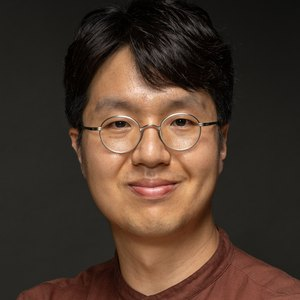
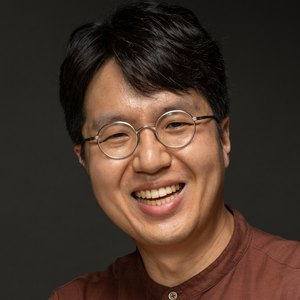
Update Cho Wonjin photo
Claude-Session: https://claude.ai/code/session_0162FmzSwpmUJUeJpj9DyQYv

diff --git a/en/planner.html b/en/planner.html
@@ -12,7 +12,7 @@
 <link rel="preconnect" href="https://cdn.jsdelivr.net" crossorigin>
 <link rel="stylesheet" href="https://cdn.jsdelivr.net/gh/orioncactus/pretendard@v1.3.9/dist/web/variable/pretendardvariable-dynamic-subset.min.css">
 
-<link rel="stylesheet" href="../css/style.css?v=11070758">
+<link rel="stylesheet" href="../css/style.css?v=11070757">
 <link rel="icon" type="image/png" sizes="32x32" href="../assets/favicon-32.png">
 <link rel="apple-touch-icon" sizes="180x180" href="../assets/apple-touch-icon.png">
 <link rel="manifest" href="../manifest.webmanifest">
@@ -23,11 +23,11 @@
 <main class="page"><a class="back" href="index.html">‹ Home</a><h1 class="pg-t">Session Planner</h1><p class="pg-m">Enter your World Coffee Forum 2026 registration details to see your ticket type and the sessions you can attend.</p><div id="planner" aria-live="polite"></div></main>
 <footer><span>© World Coffee Forum</span><a href="index.html">Show Guide Home</a></footer>
 </div>
-<script src="../js/nav.js?v=11070758"></script>
-<script src="../js/config.js?v=11070758"></script>
-<script src="../js/data.js?v=11070758"></script>
-<script src="../js/data.en.js?v=11070758"></script>
-<script src="../js/planner.js?v=11070758"></script>
-<script src="../js/fx.js?v=11070758"></script>
+<script src="../js/nav.js?v=11070757"></script>
+<script src="../js/config.js?v=11070757"></script>
+<script src="../js/data.js?v=11070757"></script>
+<script src="../js/data.en.js?v=11070757"></script>
+<script src="../js/planner.js?v=11070757"></script>
+<script src="../js/fx.js?v=11070757"></script>
 </body>
 </html>

diff --git a/planner.html b/planner.html
@@ -12,7 +12,7 @@
 <link rel="preconnect" href="https://cdn.jsdelivr.net" crossorigin>
 <link rel="stylesheet" href="https://cdn.jsdelivr.net/gh/orioncactus/pretendard@v1.3.9/dist/web/variable/pretendardvariable-dynamic-subset.min.css">
 
-<link rel="stylesheet" href="css/style.css?v=11070758">
+<link rel="stylesheet" href="css/style.css?v=11070757">
 <link rel="icon" type="image/png" sizes="32x32" href="assets/favicon-32.png">
 <link rel="apple-touch-icon" sizes="180x180" href="assets/apple-touch-icon.png">
 <link rel="manifest" href="manifest.webmanifest">
@@ -23,10 +23,10 @@
 <main class="page"><a class="back" href="index.html">‹ 홈</a><h1 class="pg-t">세션 플래너</h1><p class="pg-m">2026 월드커피포럼 등록 정보를 입력하시면 티켓 권종과 참관 가능한 세션 정보를 확인할 수 있습니다.</p><div id="planner" aria-live="polite"></div></main>
 <footer><span>© World Coffee Forum</span><a href="index.html">쇼가이드 홈</a></footer>
 </div>
-<script src="js/nav.js?v=11070758"></script>
-<script src="js/config.js?v=11070758"></script>
-<script src="js/data.js?v=11070758"></script>
-<script src="js/planner.js?v=11070758"></script>
-<script src="js/fx.js?v=11070758"></script>
+<script src="js/nav.js?v=11070757"></script>
+<script src="js/config.js?v=11070757"></script>
+<script src="js/data.js?v=11070757"></script>
+<script src="js/planner.js?v=11070757"></script>
+<script src="js/fx.js?v=11070757"></script>
 </body>
 </html>

diff --git a/en/session.html b/en/session.html
@@ -12,7 +12,7 @@
 <link rel="preconnect" href="https://cdn.jsdelivr.net" crossorigin>
 <link rel="stylesheet" href="https://cdn.jsdelivr.net/gh/orioncactus/pretendard@v1.3.9/dist/web/variable/pretendardvariable-dynamic-subset.min.css">
 
-<link rel="stylesheet" href="../css/style.css?v=11070758">
+<link rel="stylesheet" href="../css/style.css?v=11070757">
 <link rel="icon" type="image/png" sizes="32x32" href="../assets/favicon-32.png">
 <link rel="apple-touch-icon" sizes="180x180" href="../assets/apple-touch-icon.png">
 <link rel="manifest" href="../manifest.webmanifest">
@@ -23,10 +23,10 @@
 <main class="page" id="view"></main>
 <footer><span>© World Coffee Forum</span><a href="index.html">Show Guide Home</a></footer>
 </div>
-<script src="../js/nav.js?v=11070758"></script>
-<script src="../js/data.js?v=11070758"></script>
-<script src="../js/data.en.js?v=11070758"></script>
-<script src="../js/detail.js?v=11070758"></script>
-<script src="../js/fx.js?v=11070758"></script>
+<script src="../js/nav.js?v=11070757"></script>
+<script src="../js/data.js?v=11070757"></script>
+<script src="../js/data.en.js?v=11070757"></script>
+<script src="../js/detail.js?v=11070757"></script>
+<script src="../js/fx.js?v=11070757"></script>
 </body>
 </html>

diff --git a/session.html b/session.html
@@ -12,7 +12,7 @@
 <link rel="preconnect" href="https://cdn.jsdelivr.net" crossorigin>
 <link rel="stylesheet" href="https://cdn.jsdelivr.net/gh/orioncactus/pretendard@v1.3.9/dist/web/variable/pretendardvariable-dynamic-subset.min.css">
 
-<link rel="stylesheet" href="css/style.css?v=11070758">
+<link rel="stylesheet" href="css/style.css?v=11070757">
 <link rel="icon" type="image/png" sizes="32x32" href="assets/favicon-32.png">
 <link rel="apple-touch-icon" sizes="180x180" href="assets/apple-touch-icon.png">
 <link rel="manifest" href="manifest.webmanifest">
@@ -23,9 +23,9 @@
 <main class="page" id="view"></main>
 <footer><span>© World Coffee Forum</span><a href="index.html">쇼가이드 홈</a></footer>
 </div>
-<script src="js/nav.js?v=11070758"></script>
-<script src="js/data.js?v=11070758"></script>
-<script src="js/detail.js?v=11070758"></script>
-<script src="js/fx.js?v=11070758"></script>
+<script src="js/nav.js?v=11070757"></script>
+<script src="js/data.js?v=11070757"></script>
+<script src="js/detail.js?v=11070757"></script>
+<script src="js/fx.js?v=11070757"></script>
 </body>
 </html>

diff --git a/en/about.html b/en/about.html
@@ -12,7 +12,7 @@
 <link rel="preconnect" href="https://cdn.jsdelivr.net" crossorigin>
 <link rel="stylesheet" href="https://cdn.jsdelivr.net/gh/orioncactus/pretendard@v1.3.9/dist/web/variable/pretendardvariable-dynamic-subset.min.css">
 
-<link rel="stylesheet" href="../css/style.css?v=11070758">
+<link rel="stylesheet" href="../css/style.css?v=11070757">
 <link rel="icon" type="image/png" sizes="32x32" href="../assets/favicon-32.png">
 <link rel="apple-touch-icon" sizes="180x180" href="../assets/apple-touch-icon.png">
 <link rel="manifest" href="../manifest.webmanifest">
@@ -48,7 +48,7 @@
 </main>
 <footer><span>© World Coffee Forum</span><a href="index.html">Show Guide Home</a></footer>
 </div>
-<script src="../js/nav.js?v=11070758"></script>
-<script src="../js/fx.js?v=11070758"></script>
+<script src="../js/nav.js?v=11070757"></script>
+<script src="../js/fx.js?v=11070757"></script>
 </body>
 </html>

diff --git a/about.html b/about.html
@@ -12,7 +12,7 @@
 <link rel="preconnect" href="https://cdn.jsdelivr.net" crossorigin>
 <link rel="stylesheet" href="https://cdn.jsdelivr.net/gh/orioncactus/pretendard@v1.3.9/dist/web/variable/pretendardvariable-dynamic-subset.min.css">
 
-<link rel="stylesheet" href="css/style.css?v=11070758">
+<link rel="stylesheet" href="css/style.css?v=11070757">
 <link rel="icon" type="image/png" sizes="32x32" href="assets/favicon-32.png">
 <link rel="apple-touch-icon" sizes="180x180" href="assets/apple-touch-icon.png">
 <link rel="manifest" href="manifest.webmanifest">
@@ -48,7 +48,7 @@
 </main>
 <footer><span>© World Coffee Forum</span><a href="index.html">쇼가이드 홈</a></footer>
 </div>
-<script src="js/nav.js?v=11070758"></script>
-<script src="js/fx.js?v=11070758"></script>
+<script src="js/nav.js?v=11070757"></script>
+<script src="js/fx.js?v=11070757"></script>
 </body>
 </html>

diff --git a/en/index.html b/en/index.html
@@ -12,7 +12,7 @@
 <link rel="preconnect" href="https://cdn.jsdelivr.net" crossorigin>
 <link rel="stylesheet" href="https://cdn.jsdelivr.net/gh/orioncactus/pretendard@v1.3.9/dist/web/variable/pretendardvariable-dynamic-subset.min.css">
 
-<link rel="stylesheet" href="../css/style.css?v=11070758">
+<link rel="stylesheet" href="../css/style.css?v=11070757">
 <link rel="icon" type="image/png" sizes="32x32" href="../assets/favicon-32.png">
 <link rel="apple-touch-icon" sizes="180x180" href="../assets/apple-touch-icon.png">
 <link rel="manifest" href="../manifest.webmanifest">
@@ -181,7 +181,7 @@
   });
 })();
 </script>
-<script src="../js/nav.js?v=11070758"></script>
-<script src="../js/fx.js?v=11070758"></script>
+<script src="../js/nav.js?v=11070757"></script>
+<script src="../js/fx.js?v=11070757"></script>
 </body>
 </html>

diff --git a/index.html b/index.html
@@ -12,7 +12,7 @@
 <link rel="preconnect" href="https://cdn.jsdelivr.net" crossorigin>
 <link rel="stylesheet" href="https://cdn.jsdelivr.net/gh/orioncactus/pretendard@v1.3.9/dist/web/variable/pretendardvariable-dynamic-subset.min.css">
 
-<link rel="stylesheet" href="css/style.css?v=11070758">
+<link rel="stylesheet" href="css/style.css?v=11070757">
 <link rel="icon" type="image/png" sizes="32x32" href="assets/favicon-32.png">
 <link rel="apple-touch-icon" sizes="180x180" href="assets/apple-touch-icon.png">
 <link rel="manifest" href="manifest.webmanifest">
@@ -181,7 +181,7 @@
   });
 })();
 </script>
-<script src="js/nav.js?v=11070758"></script>
-<script src="js/fx.js?v=11070758"></script>
+<script src="js/nav.js?v=11070757"></script>
+<script src="js/fx.js?v=11070757"></script>
 </body>
 </html>

diff --git a/js/data.js b/js/data.js
@@ -883,7 +883,7 @@ window.WCF_SESSIONS = [
    {
     "name": "조원진",
     "role": "커피 칼럼니스트",
-    "photo": "assets/sp/cho-wonjin.jpg",
+    "photo": "assets/sp/cho-wonjin.jpg?v=2",
     "bio": "‘베이루트’라는 필명으로 활동하는 회사원이자 커피 칼럼니스트. 조선일보·중앙일보·월간커피 등 여러 매체에 커피 글을 기고하고, 폴인·트레바리·서울카페쇼·SCA 리테일 서밋 등에서 모더레이터를 맡았다. 『열아홉 바리스타, 이야기를 로스팅하다』, 『스페셜티커피, 샌프란시스코에서 성수까지』, 『Korea Specialty Coffee Guide』, 2026년 신간 『사사로운 커피사』 등을 썼다."
    },
    {
